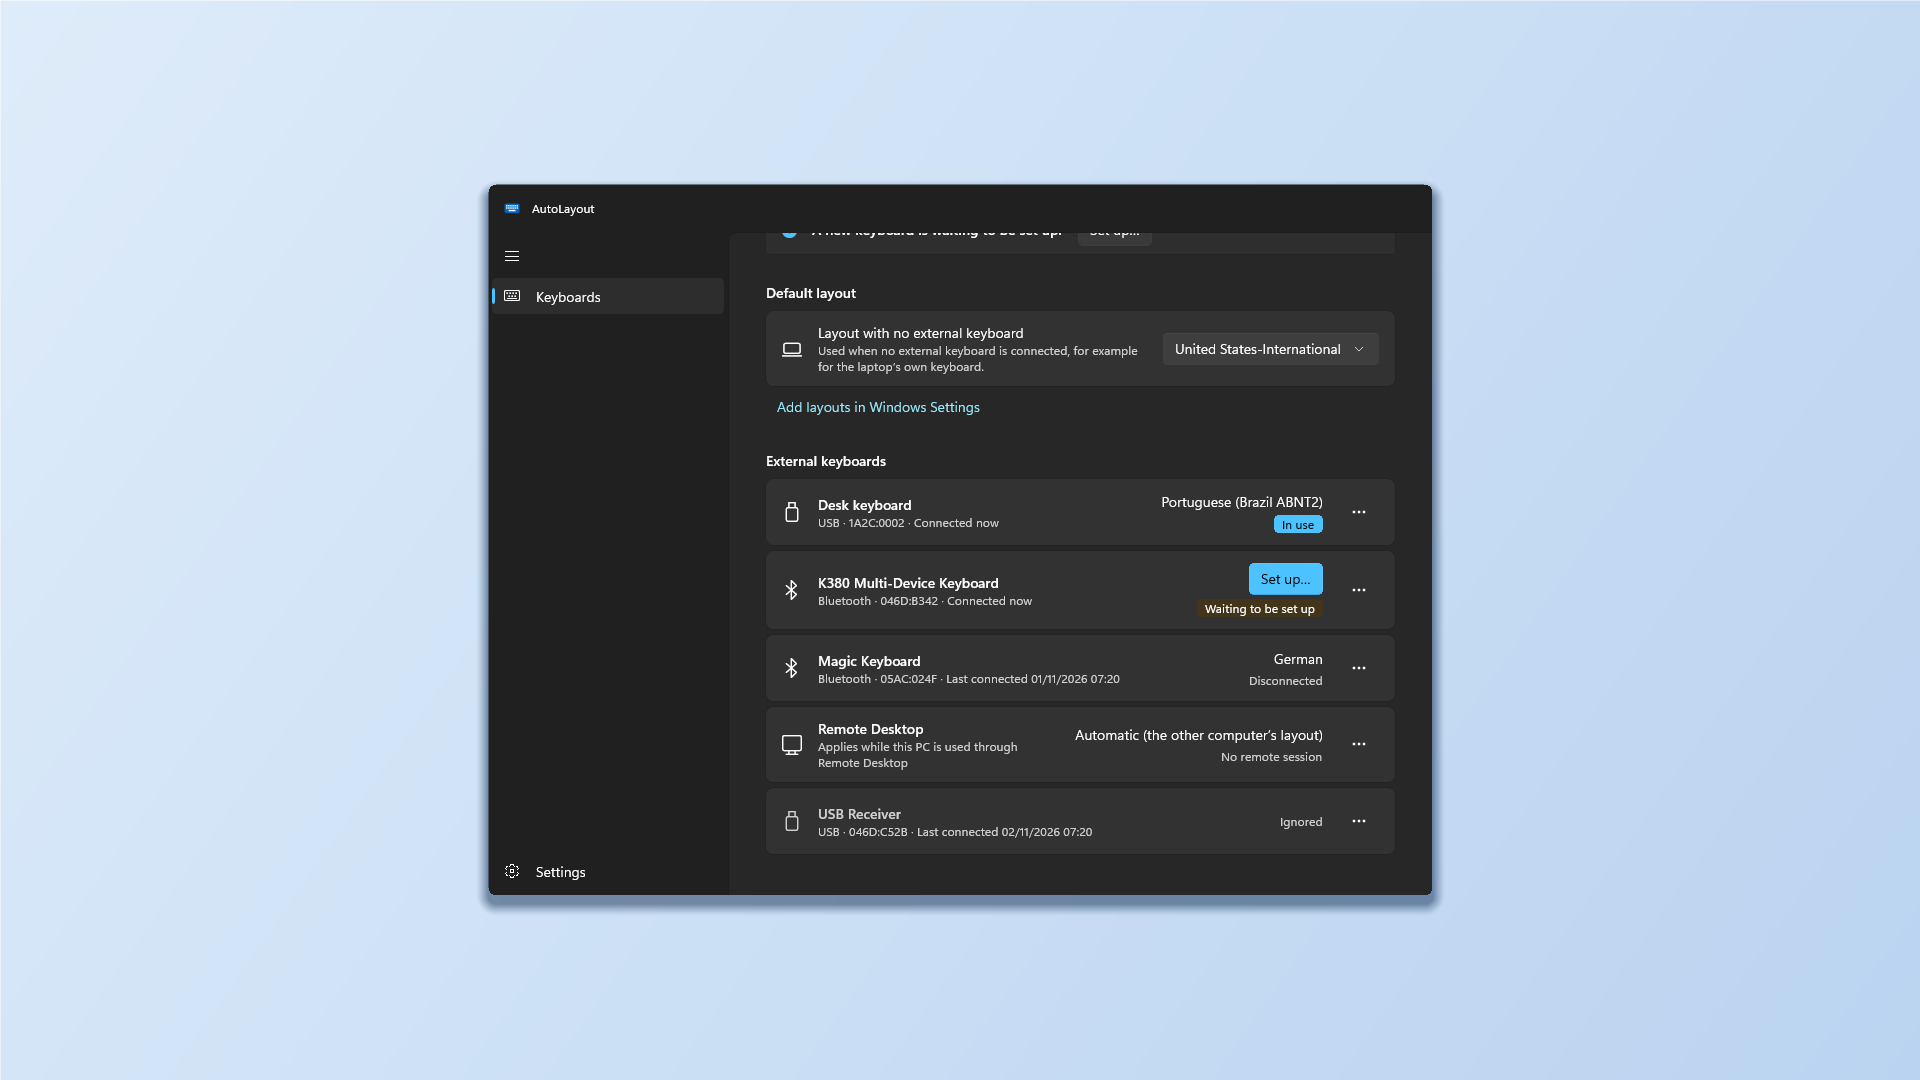
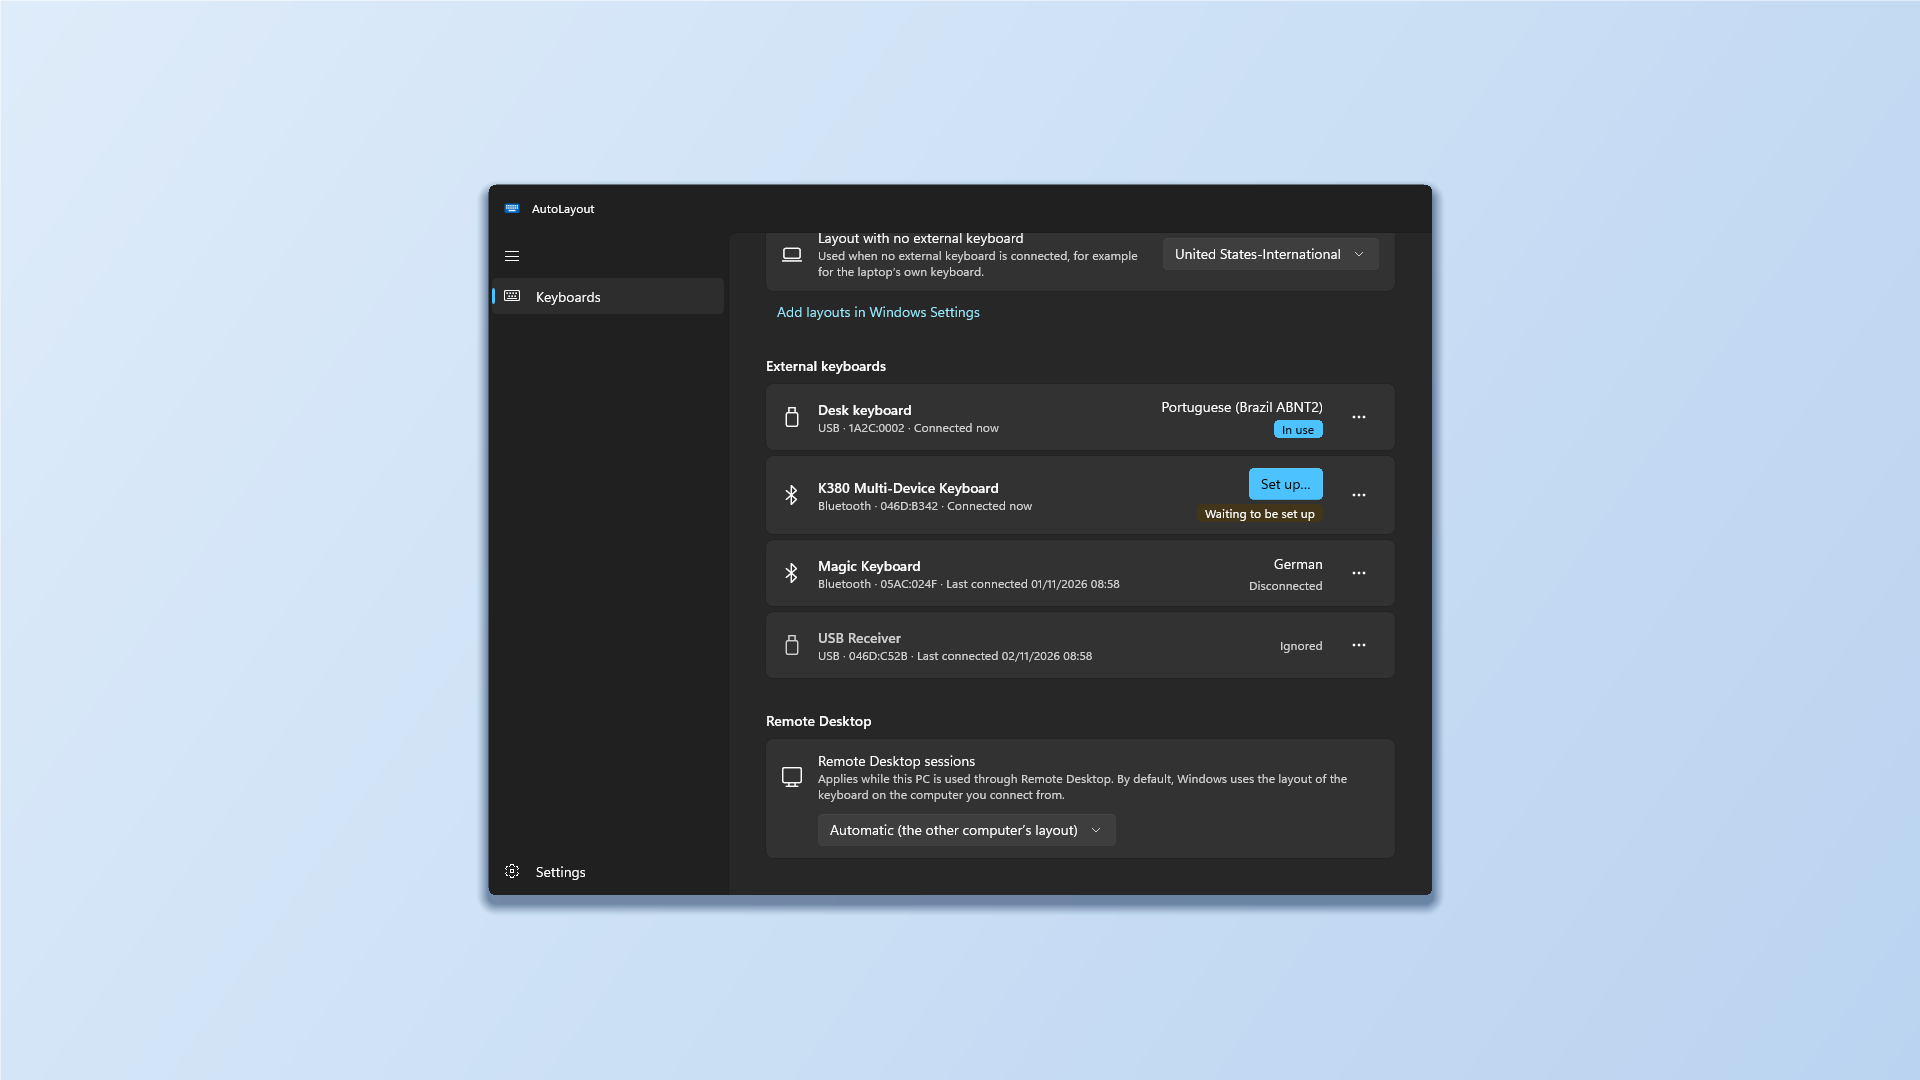
Remote Desktop gets its own section; focus stays in the keyboard list
Remote Desktop is a setting of this PC, not a device, so it leaves the
keyboard list for a section of its own at the end of the page: the
explanation and a layout box, "Automatic (the other computer's layout)"
or any installed layout. Engine.SetRemoteLayout makes the choice work
before the first remote session (Configure needed an existing entry);
a scenario test covers it. The box goes under the long explanation so
neither is squeezed in German. The problem bar's "Choose layout" opens
this box for Remote Desktop. No new strings: the section reuses the
existing translations.

Found while checking: every change rebuilt the keyboard list and the
focus jumped to the first button of the window; it now goes back to the
same row. Capture mode checks both under Native AOT (the box reaches the
engine; the focus stays in the row) and keeps the keyboard focus ring
out of screenshots. README, review notes and Store images updated.

diff --git a/src/AutoLayout/Views/KeyboardsPage.xaml b/src/AutoLayout/Views/KeyboardsPage.xaml
@@ -125,6 +125,29 @@
                     </DataTemplate>
                 </ListView.ItemTemplate>
             </ListView>
+
+            <!-- Remote Desktop: a setting of this PC, not a device; texts set in code -->
+            <TextBlock x:Name="RemoteSectionText" Style="{StaticResource SectionHeaderStyle}" />
+            <!-- The explanation is long: the choice goes under it, at full width, so neither is squeezed -->
+            <Border Style="{StaticResource CardStyle}">
+                <Grid ColumnSpacing="16" RowSpacing="12">
+                    <Grid.ColumnDefinitions>
+                        <ColumnDefinition Width="Auto" />
+                        <ColumnDefinition Width="*" />
+                    </Grid.ColumnDefinitions>
+                    <Grid.RowDefinitions>
+                        <RowDefinition Height="Auto" />
+                        <RowDefinition Height="Auto" />
+                    </Grid.RowDefinitions>
+                    <FontIcon Glyph="&#xE7F4;" VerticalAlignment="Center" />
+                    <StackPanel Grid.Column="1" VerticalAlignment="Center">
+                        <TextBlock x:Name="RemoteHeaderText" Style="{StaticResource BodyTextBlockStyle}" />
+                        <TextBlock x:Name="RemoteDescriptionText" Style="{StaticResource SecondaryTextStyle}" TextWrapping="Wrap" />
+                    </StackPanel>
+                    <ComboBox x:Name="RemoteCombo" Grid.Row="1" Grid.Column="1" MinWidth="280" MaxWidth="480"
+                              HorizontalAlignment="Left" SelectionChanged="OnRemoteChanged" />
+                </Grid>
+            </Border>
         </StackPanel>
     </ScrollViewer>
 </Page>

diff --git a/src/AutoLayout/Views/KeyboardsPage.xaml.cs b/src/AutoLayout/Views/KeyboardsPage.xaml.cs
@@ -8,9 +8,11 @@ using System.Linq;
 using AutoLayout.Core;
 using AutoLayout.Services;
 using Microsoft.UI.Xaml;
+using Microsoft.UI.Xaml.Automation;
 using Microsoft.UI.Xaml.Automation.Peers;
 using Microsoft.UI.Xaml.Controls;
 using Microsoft.UI.Xaml.Controls.Primitives;
+using Microsoft.UI.Xaml.Input;
 using Microsoft.UI.Xaml.Media;
 
 namespace AutoLayout.Views;
@@ -50,11 +52,16 @@ public sealed partial class KeyboardsPage : Page
     private readonly Engine engine = App.Current.Engine;
     private readonly ObservableCollection<KeyboardItem> items = new();
     private bool updatingDefault;
+    private bool updatingRemote;
 
     public KeyboardsPage()
     {
         InitializeComponent();
         KeyboardList.ItemsSource = items;
+        RemoteSectionText.Text = Loc.Get("Conn_RemoteDesktop");
+        RemoteHeaderText.Text = Loc.Get("Kbd_Heading_Remote");
+        RemoteDescriptionText.Text = Loc.Get("Kbd_Hint_Remote");
+        AutomationProperties.SetName(RemoteCombo, Loc.Get("Kbd_Heading_Remote"));
 
         // The status colors are looked up in code: look them up again for the other theme
         ActualThemeChanged += (_, _) => RefreshList();
@@ -73,6 +80,58 @@ public sealed partial class KeyboardsPage : Page
         RefreshStatus();
         RefreshDefault();
         RefreshList();
+        RefreshRemote();
+    }
+
+    /// <summary>"Automatic (the other computer's layout)" and the installed layouts.</summary>
+    private void RefreshRemote()
+    {
+        updatingRemote = true;
+        try
+        {
+            RemoteCombo.Items.Clear();
+            KeyboardRecord? remote = engine.Find(ExternalKeyboards.RemoteDesktopKey);
+            string selected = remote?.LayoutProfileId ?? SettingsStore.AutomaticProfileId;
+
+            ComboBoxItem automatic = new() { Content = Loc.Get("Layout_Automatic"), Tag = SettingsStore.AutomaticProfileId };
+            RemoteCombo.Items.Add(automatic);
+            RemoteCombo.SelectedItem = selected == SettingsStore.AutomaticProfileId ? automatic : null;
+            foreach (InputProfile profile in engine.InstalledProfiles.OrderBy(p => Ui.ProfileName(engine, p), StringComparer.CurrentCultureIgnoreCase))
+            {
+                ComboBoxItem item = new() { Content = Ui.ProfileName(engine, profile), Tag = profile };
+                RemoteCombo.Items.Add(item);
+                if (string.Equals(profile.Id, selected, StringComparison.OrdinalIgnoreCase))
+                {
+                    RemoteCombo.SelectedItem = item;
+                }
+            }
+            if (RemoteCombo.SelectedItem == null && remote != null)
+            {
+                // The chosen layout was uninstalled: show it, but it can't be chosen again
+                ComboBoxItem missing = new() { Content = Ui.LayoutText(engine, remote), IsEnabled = false };
+                RemoteCombo.Items.Insert(1, missing);
+                RemoteCombo.SelectedItem = missing;
+            }
+        }
+        finally
+        {
+            updatingRemote = false;
+        }
+    }
+
+    private void OnRemoteChanged(object sender, SelectionChangedEventArgs e)
+    {
+        if (updatingRemote || RemoteCombo.SelectedItem is not ComboBoxItem { IsEnabled: true } item)
+        {
+            return;
+        }
+        InputProfile? profile = item.Tag as InputProfile;
+        string chosen = profile?.Id ?? SettingsStore.AutomaticProfileId;
+        string current = engine.Find(ExternalKeyboards.RemoteDesktopKey)?.LayoutProfileId ?? SettingsStore.AutomaticProfileId;
+        if (!string.Equals(chosen, current, StringComparison.OrdinalIgnoreCase))
+        {
+            engine.SetRemoteLayout(profile);
+        }
     }
 
     private void RefreshStatus()
@@ -159,8 +218,12 @@ public sealed partial class KeyboardsPage : Page
 
     private void RefreshList()
     {
-        List<KeyboardRecord> keyboards = engine.Keyboards.ToList();
+        // Remote Desktop has its own section below the list
+        List<KeyboardRecord> keyboards = engine.Keyboards.Where(k => k.Connection != KeyboardConnection.RemoteDesktop).ToList();
         keyboards.Sort(Compare);
+
+        // Rebuilding the rows takes the focus away from them: give it back to the same row
+        (string? focusedKey, FocusState focusState) = FocusedRow();
 
         items.Clear();
         foreach (KeyboardRecord keyboard in keyboards)
@@ -169,6 +232,40 @@ public sealed partial class KeyboardsPage : Page
         }
         EmptyText.Visibility = items.Count == 0 ? Visibility.Visible : Visibility.Collapsed;
         KeyboardList.Visibility = items.Count == 0 ? Visibility.Collapsed : Visibility.Visible;
+
+        if (focusedKey != null)
+        {
+            DispatcherQueue.TryEnqueue(() =>
+            {
+                KeyboardItem? row = items.FirstOrDefault(i => i.Key == focusedKey);
+                if (row != null && KeyboardList.ContainerFromItem(row) is UIElement container)
+                {
+                    container.Focus(focusState);
+                }
+                else if (items.Count > 0)
+                {
+                    // The row is gone (forgotten): stay in the list
+                    KeyboardList.Focus(focusState);
+                }
+            });
+        }
+    }
+
+    /// <summary>The keyboard row that has the focus (the row or a control in it), and how it got it.</summary>
+    private (string? Key, FocusState State) FocusedRow()
+    {
+        if (XamlRoot == null || FocusManager.GetFocusedElement(XamlRoot) is not UIElement focused)
+        {
+            return (null, FocusState.Unfocused);
+        }
+        for (DependencyObject? element = focused; element != null && element != KeyboardList; element = VisualTreeHelper.GetParent(element))
+        {
+            if (element is FrameworkElement { DataContext: KeyboardItem item })
+            {
+                return (item.Key, focused.FocusState);
+            }
+        }
+        return (null, FocusState.Unfocused);
     }
 
     private KeyboardItem ToItem(KeyboardRecord keyboard)
@@ -347,7 +444,12 @@ public sealed partial class KeyboardsPage : Page
         {
             return;
         }
-        if (problem.Kind == ProblemKind.LayoutMissing && problem.Keyboard != null)
+        if (problem.Kind == ProblemKind.LayoutMissing && problem.Keyboard?.Connection == KeyboardConnection.RemoteDesktop)
+        {
+            RemoteCombo.Focus(FocusState.Programmatic);
+            RemoteCombo.IsDropDownOpen = true;
+        }
+        else if (problem.Kind == ProblemKind.LayoutMissing && problem.Keyboard != null)
         {
             App.Current.ShowKeyboardWindow(problem.Keyboard.Key);
         }

diff --git a/src/AutoLayout/Services/Capture.cs b/src/AutoLayout/Services/Capture.cs
@@ -48,6 +48,16 @@ internal static class Capture
             ScrollPage(main, toEnd: true);
             await Task.Delay(ShortWait);
             await SaveAsync(main, Path("keyboards-end"));
+
+            // Choosing a Remote Desktop layout reaches the engine (checks the item tags under Native AOT)
+            if (Descendants(main).OfType<ComboBox>().FirstOrDefault(c => c.Name == "RemoteCombo") is ComboBox remote && remote.Items.Count > 1)
+            {
+                remote.SelectedIndex = remote.Items.Count - 1;
+                await Task.Delay(ShortWait);
+                Log.Write("Capture: Remote Desktop layout chosen: " + app.Engine.Find(ExternalKeyboards.RemoteDesktopKey)?.LayoutProfileId);
+                app.Engine.SetRemoteLayout(null);
+                await Task.Delay(ShortWait);
+            }
             ScrollPage(main, toEnd: false);
             await Task.Delay(ShortWait);
 
@@ -92,10 +102,21 @@ internal static class Capture
                 }
             }
 
+            // The list is rebuilt here: the focus must stay in it (logged, to check)
+            string FocusName() => Microsoft.UI.Xaml.Input.FocusManager.GetFocusedElement(main.XamlRoot) is FrameworkElement f
+                ? f.GetType().Name + (f.DataContext is Views.KeyboardItem k ? " in row " + k.Key : string.Empty) : "none";
+            // As a keyboard user would be: on the "…" button of the first row
+            if (Descendants(main).OfType<Border>().FirstOrDefault(b => b.ContextFlyout != null) is Border firstRow)
+            {
+                Descendants(firstRow).OfType<Button>().LastOrDefault()?.Focus(FocusState.Keyboard);
+            }
+            await Task.Delay(ShortWait);
+            string before = FocusName();
             Demo.LayoutMissing = true;
             app.Engine.ReloadProfiles();
             app.Engine.Refresh();
             await Task.Delay(LongWait);
+            Log.Write("Capture: focus before the list was rebuilt: " + before + "; after: " + FocusName());
             await SaveAsync(main, Path("keyboards-problem"));
             Demo.LayoutMissing = false;
             app.Engine.ReloadProfiles();
@@ -178,6 +199,21 @@ internal static class Capture
         if (element == null)
         {
             return;
+        }
+        // No keyboard focus ring in screenshots (WinUI may give the window's first button keyboard
+        // focus): the focus goes, without a ring, to the first control of the content
+        DependencyObject content = Descendants(element).OfType<Frame>().FirstOrDefault()?.Content as DependencyObject ?? element;
+        DependencyObject? focused = element.XamlRoot != null
+            ? Microsoft.UI.Xaml.Input.FocusManager.GetFocusedElement(element.XamlRoot) as DependencyObject : null;
+        while (focused != null && focused != content)
+        {
+            focused = VisualTreeHelper.GetParent(focused);
+        }
+        if (focused == null
+            && Descendants(content).OfType<Control>().FirstOrDefault(c => c.IsTabStop && c.IsEnabled && c.Visibility == Visibility.Visible) is Control first)
+        {
+            first.Focus(FocusState.Programmatic);
+            await Task.Delay(100);
         }
         RenderTargetBitmap bitmap = new();
         await bitmap.RenderAsync(element);

diff --git a/tests/AutoLayout.Core.Tests/EngineScenarioTests.cs b/tests/AutoLayout.Core.Tests/EngineScenarioTests.cs
@@ -2,6 +2,7 @@
 // SPDX-License-Identifier: Apache-2.0
 
 using System.Collections.Generic;
+using System.Linq;
 using Microsoft.VisualStudio.TestTools.UnitTesting;
 
 namespace AutoLayout.Core.Tests;
@@ -340,6 +341,30 @@ public sealed class EngineScenarioTests
         rig.Engine.SetRemoteAutomatic(null);
         rig.Engine.SetIgnored(ExternalKeyboards.RemoteDesktopKey, true);
         Assert.AreEqual(KeyboardState.Configured, rig.Engine.Find(ExternalKeyboards.RemoteDesktopKey)!.State, "Remote Desktop cannot be ignored");
+    }
+
+    [TestMethod]
+    public void RemoteDesktop_LayoutCanBeChosenBeforeTheFirstSession()
+    {
+        Rig rig = new Rig().Start();
+        Assert.IsNull(rig.Engine.Find(ExternalKeyboards.RemoteDesktopKey), "No entry until a session or a choice");
+
+        rig.Engine.SetRemoteLayout(FakeInputs.German);
+        KeyboardRecord rdp = rig.Engine.Find(ExternalKeyboards.RemoteDesktopKey)!;
+        Assert.AreEqual(FakeInputs.German.Id, rdp.LayoutProfileId);
+        Assert.AreEqual(KeyboardState.Configured, rdp.State);
+        Assert.AreEqual(FakeInputs.UsIntl.Id, rig.Inputs.CurrentId, "Nothing changes outside a remote session");
+
+        rig.Devices.IsRemoteSession = true;
+        rig.Engine.Refresh();
+        Assert.AreEqual(FakeInputs.German.Id, rig.Inputs.CurrentId);
+
+        rig.Engine.SetRemoteLayout(null);
+        Assert.AreEqual(SettingsStore.AutomaticProfileId, rdp.LayoutProfileId);
+        Assert.IsNull(rdp.LayoutKlid);
+        Assert.IsTrue(rig.Engine.IsRemoteAutomatic);
+        Assert.AreEqual(SettingsStore.AutomaticProfileId, rig.Store.Reload()!.Keyboards.Single(k => k.Key == ExternalKeyboards.RemoteDesktopKey).LayoutProfileId,
+            "Saved");
     }
 
     [TestMethod]

diff --git a/src/AutoLayout.Core/Core/Engine.cs b/src/AutoLayout.Core/Core/Engine.cs
@@ -233,6 +233,21 @@ public sealed class Engine
         RunUpdate(null);
     }
 
+    /// <summary>
+    /// The layout for Remote Desktop sessions, or null to leave it to Windows (the other
+    /// computer's layout). Works before the first remote session, unlike <see cref="Configure"/>.
+    /// </summary>
+    public void SetRemoteLayout(InputProfile? profile)
+    {
+        KeyboardRecord keyboard = EnsureRemoteRecord(DateTime.UtcNow);
+        keyboard.LayoutProfileId = profile?.Id ?? SettingsStore.AutomaticProfileId;
+        keyboard.LayoutKlid = profile?.Klid;
+        keyboard.State = KeyboardState.Configured;
+        Save();
+        Log.Write("Remote Desktop set to " + keyboard.LayoutProfileId);
+        RunUpdate(null);
+    }
+
     public void Rename(string key, string? friendlyName)
     {
         KeyboardRecord? keyboard = Find(key);

diff --git a/docs/ui-review.md b/docs/ui-review.md
@@ -11,7 +11,7 @@ An independent design review of every window, page state, menu and dialog, from 
 | 3 | The ignored row, at 60% opacity, failed text contrast | Full opacity; the name and icon in the secondary text color |
 | 4 | With a keyboard's layout uninstalled, the page said its layout was in use because it was connected | "“{0}” is connected, but its layout isn’t installed, so the default layout is in use." |
 | 5 | Forgetting a connected keyboard said "if you connect it again" | A text for the connected case: it goes back to waiting at once |
-| 6 | Remote Desktop looked like a disconnected keyboard, could be "forgotten", and its window had a Name field | Own description and status ("No remote session"), no Forget, no Name field, its own window title |
+| 6 | Remote Desktop looked like a disconnected keyboard, could be "forgotten", and its window had a Name field | Its own section under the keyboards: the explanation and a layout box ("Automatic (the other computer’s layout)" or any installed layout), which works before the first remote session (`Engine.SetRemoteLayout`). Its window, still opened from a problem notification, has no Name field |
 | 7 | Status pills were inconsistent in the light theme and kept old colors after a theme change | Pills only for "In use" and "Waiting"; other states are plain secondary text; colors refresh on theme change |
 | 8 | A stray "—" for keyboards with no layout; no direct action on a waiting keyboard | No layout text; an accent "Set up…" button on the waiting row |
 | 9 | "Ignore" used the warning icon; no right-click menu | Hide/View icons; the menu is the card's context menu (right-click, Shift+F10) and the "…" button opens it |
@@ -23,12 +23,12 @@ An independent design review of every window, page state, menu and dialog, from 
 | 15 | Monitor icon for "no external keyboard", collapse-like icon for Remote Desktop | Laptop and monitor |
 | 16 | Tray menu said "Current layout" and used "…" without a following dialog; the new-keyboard notification said "Confirm it to use it"; "USB Keyboard · USB" | "Layout in use", "Open AutoLayout", "Settings"; "Until you confirm it, nothing changes."; the product name is dropped when it repeats the connection; layout-change notifications are silent |
 | 17 | The setup window's footer divider was invisible in the dark theme | Divider brush |
+| — | Found while checking the fixes: every change rebuilt the keyboard list and the focus jumped out of it, to the first button of the window | The focus goes back to the same row, in the same focus state (checked under Native AOT by capture mode) |
 
 The new and changed strings were translated into the 36 machine-translated languages; the translation tests check every language for every key and placeholder.
 
 ## Not changed yet
 
-- **Remote Desktop as its own section** (an inline card with a layout selector, like the default layout) instead of a row in the keyboard list. The row now explains itself; a section would be clearer still.
 - **A distinguishing mark on the tray icon.** The plain keyboard resembles Windows' touch keyboard icon.
 - **Narrow windows and 200% text** were judged from the source, not measured: the setup window's footer could still overflow with very long button labels.
 - **Framework text in screenshots with `--lang`.** WinUI's own strings (the On/Off of switches) follow the Windows display language, so a capture in another language mixes the two. In normal use the app follows the Windows display language and they match.

diff --git a/README.md b/README.md
@@ -35,7 +35,7 @@ Hat tip to [SaltwaterC/KeyboardBacklightForLenovo](https://github.com/SaltwaterC
 On first start the main window opens with your current default layout selected. Close it and AutoLayout keeps running in the notification area.
 
 - **Notification area icon:** click it to open AutoLayout, or to set up a keyboard that is waiting. Right-click for the menu.
-- **Keyboards:** the layout in use and why, the layout when no external keyboard is connected, and every keyboard seen, with its layout and status. From a keyboard's "…" menu you can edit it, ignore it (for mice and receivers that Windows lists as keyboards) or forget it.
+- **Keyboards:** the layout in use and why, the layout when no external keyboard is connected, and every keyboard seen, with its layout and status. From a keyboard's "…" menu (or by right-clicking it) you can edit it, ignore it (for mice and receivers that Windows lists as keyboards) or forget it. At the end, the layout for Remote Desktop sessions: automatic (the other computer's layout) or one you choose.
 - **Settings:** start with Windows, a notification when the layout changes, the ThinkPad backlight and a diagnostic log.
 
 Settings and the log are in `%LocalAppData%\AutoLayout` (`settings.json`, `autolayout.log`). The log is off unless you turn it on, or start AutoLayout with `--log`.
